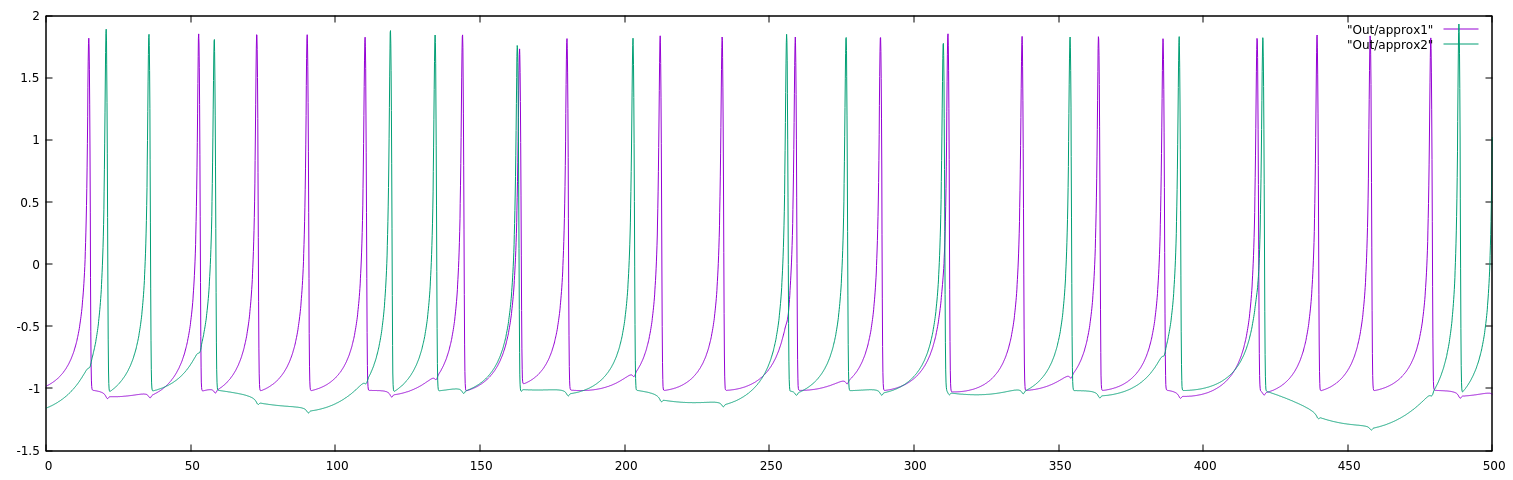
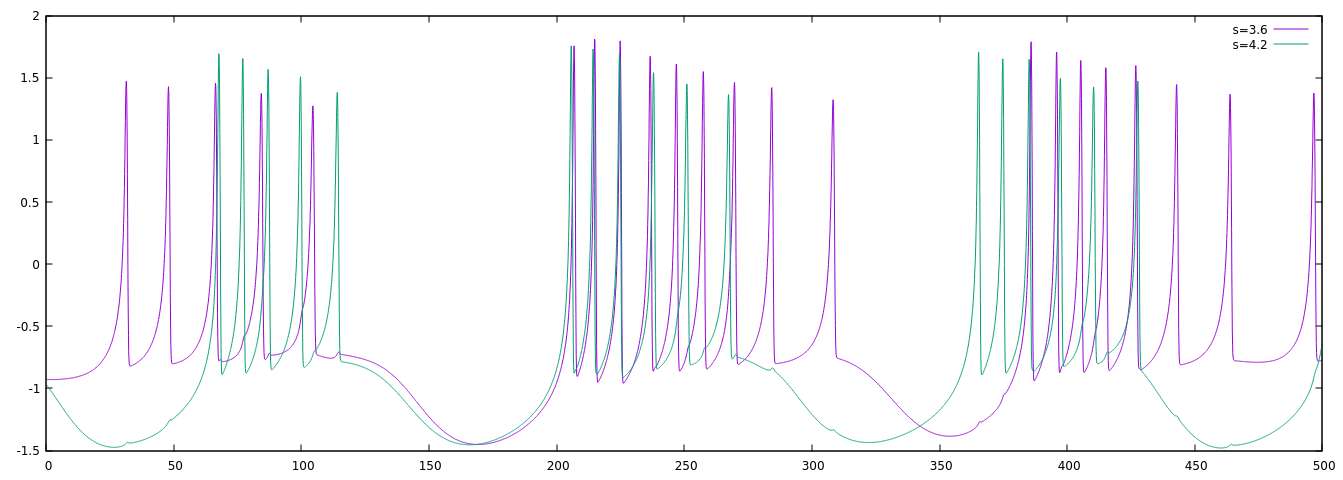
Fixed the reverse coupling

diff --git a/Src/main.c b/Src/main.c
@@ -24,7 +24,7 @@
 #define xR -1.56F
 #define r 0.006F
 #define I 3.1F
-#define gc 0.0F
+#define gc 0.1F
 
 /** Global Variables **/
 float s = 3.6;          // Default value.
@@ -202,7 +202,7 @@ float *getHR(float inputs[], float curX) {
     float s1 = inputs[3];
     float x2 = inputs[4];
 
-    slopes[0] = y - (x*x*x) + (3*x*x) - z + I + gc * (x - x2);
+    slopes[0] = y - (x*x*x) + (3*x*x) - z + I - gc * (x - x2);
     slopes[1] = 1 - (5*x*x) - y;
     slopes[2] = r * (s1 * (x - xR) - z);
 

diff --git a/Src/numerical_methods.c b/Src/numerical_methods.c
@@ -59,7 +59,7 @@ void runRungeKutta(float *(*getODEs)(float [], float), EqConditions *cond, EqSol
         inputs[0][i] = cond->inits[i];
         inputs[1][i] = cond->inits[i];
     }
-    inputs[0][sol->funcCount] = 3.6;
+    inputs[0][sol->funcCount] = 3.6; // these are the temporary s values
     inputs[1][sol->funcCount] = 4.2;
     inputs[0][sol->funcCount + 1] = 0.0;
     inputs[1][sol->funcCount + 1] = 0.0;
